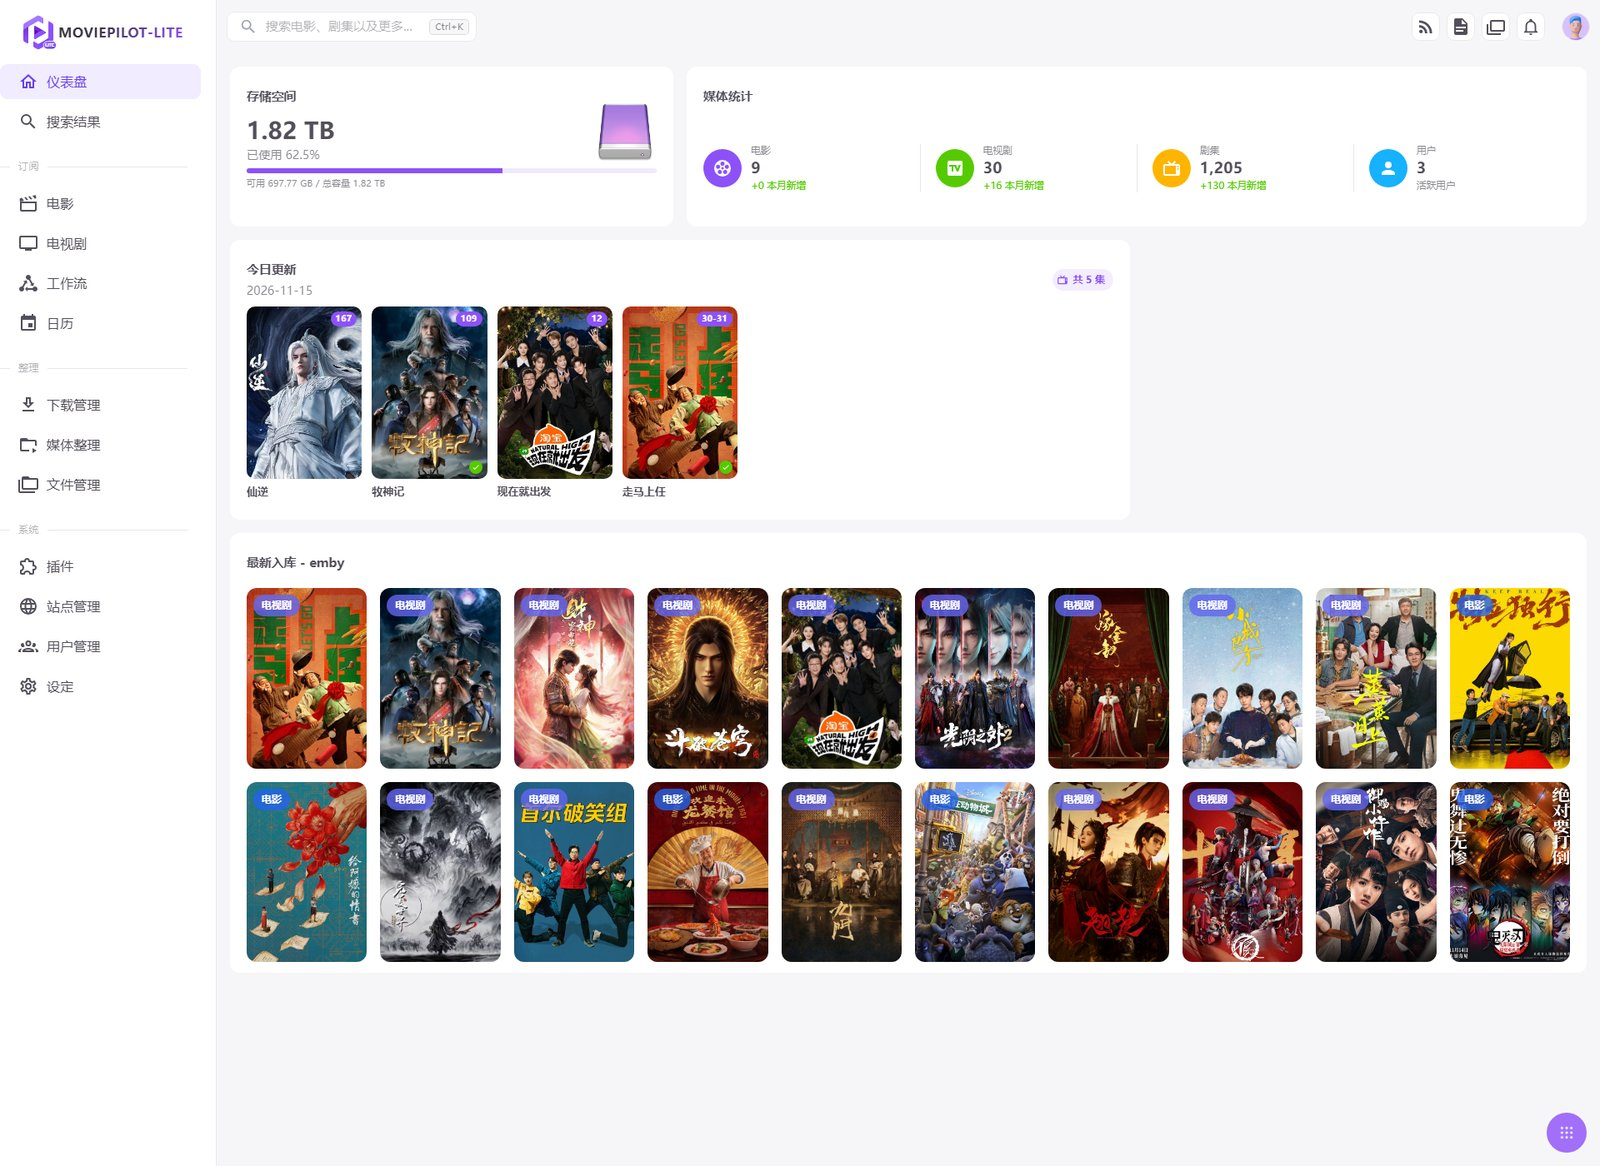
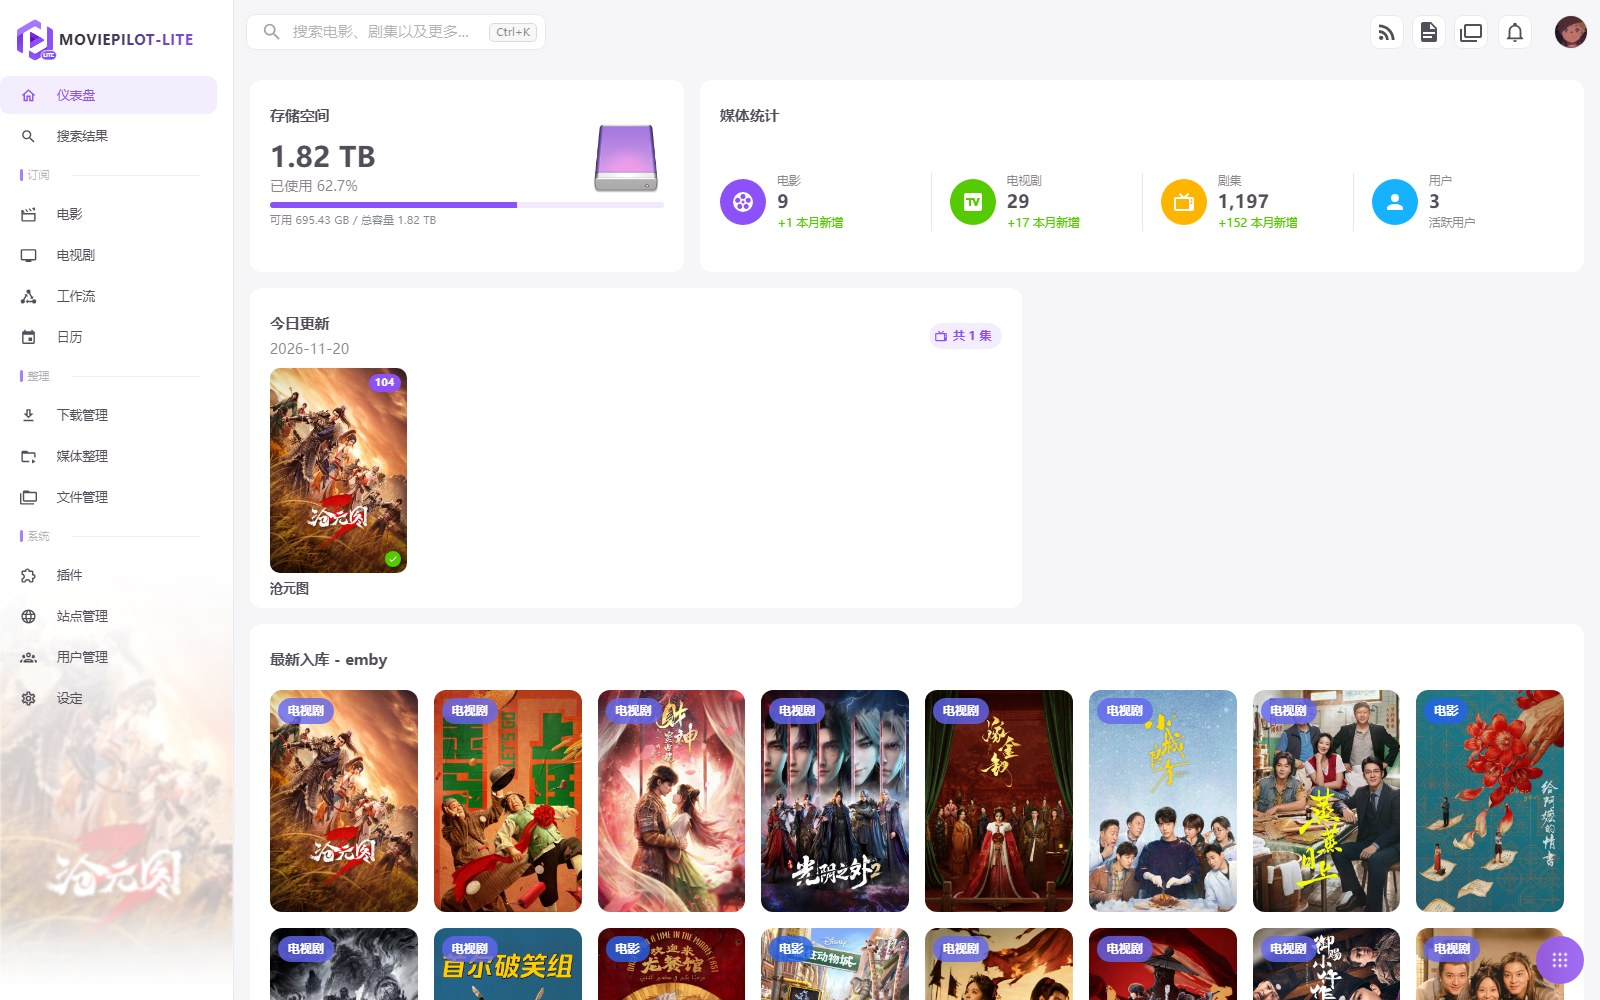
docs: refresh README intro and UI screenshots

diff --git a/README.md b/README.md
@@ -5,7 +5,7 @@
 
 简体中文 | 基于 [MoviePilot](https://github.com/jxxghp/MoviePilot) v2 的精简定制版。
 
-聚焦自动化核心流程（订阅、搜索、下载、整理、刮削、媒体库刷新、消息通知），移除 AI Agent / LLM 子系统与分享上报，并加入站点日志、订阅分类分组、今日更新等轻量增强。
+聚焦订阅、搜索、下载、整理、刮削、媒体库刷新与消息通知等核心流程，移除 AI Agent / LLM 子系统与分享上报；并针对高频使用场景重做了搜索结果、站点管理、订阅日历和侧栏，加入站点日志、日志分类标签与今日更新等轻量增强。
 
 > 仅用于学习交流使用，请勿在任何国内平台宣传该项目。
 
@@ -13,22 +13,27 @@
 
 | | |
 | --- | --- |
-| ![仪表盘](docs/screenshots/dashboard.jpg) | ![电视剧订阅](docs/screenshots/subscribe.jpg) |
-| **仪表盘**：媒体统计、今日更新、最新入库 | **订阅分组**：动漫 / 电视剧按分类自动分组，进度一目了然 |
-| ![站点日志](docs/screenshots/site-log.jpg) | ![登录页](docs/screenshots/login.jpg) |
-| **站点日志**：按站点记录每次 RSS 刷新与识别明细 | **登录页**：Bing 每日壁纸 + 暗色 LITE 皮肤 |
+| ![仪表盘](docs/screenshots/dashboard.jpg) | ![搜索结果](docs/screenshots/search.jpg) |
+| **仪表盘**：媒体统计、今日更新、最新入库 | **搜索结果**：中文标题优先，紧凑卡片与高密度列表可切换 |
+| ![电视剧订阅](docs/screenshots/subscribe.jpg) | ![站点管理](docs/screenshots/site.jpg) |
+| **订阅分组**：按分类自动分组，进度与状态一目了然 | **站点管理**：站点状态、上传下载、分享率与顶部汇总 |
+| ![站点日志](docs/screenshots/site-log.jpg) | ![日志分类](docs/screenshots/logging.jpg) |
+| **站点日志**：按站点记录 RSS 刷新与识别明细 | **日志分类**：下载 / 消息 / 刮削 / 整理分类着色与筛选 |
 
 ## 主要特性
 
 - 前后端一体：后端 FastAPI，前端 Vue 3 + Vuetify，构建产物随仓库分发
 - 订阅 / 搜索 / 下载 / 整理 / 刮削 / 媒体库刷新 / 消息通知完整保留
 - 下载器、媒体服务器、元数据源、消息渠道、插件与工作流能力保持兼容
-- **订阅分类分组**：订阅页按媒体分类（动漫 / 电视剧）自动分组展示，卡片采用 backdrop 背景 + 进度条设计
-- **站点日志**：按站点记录每次 RSS 刷新的种子名称与识别结果，支持站点切换、分页与自动刷新；RSS 刷新明细自动让位给站点日志，主日志保持清爽
+- **搜索结果页**：中文标题优先，紧凑卡片与高密度表格一键切换；支持排序、仅免费、分辨率等筛选
+- **站点管理**：状态徽章、上传/下载进度、分享率卡片化展示，顶部汇总与快捷新增/导入
+- **订阅日历**：月 / 周视图、今日与本周待播议程、入库状态高亮，移动端时间线支持折叠
+- **侧栏**：整体缩小约 10%，分组分割线，左下角动态展示当天更新海报，支持透明度调节
+- **站点日志**：按站点记录每次 RSS 刷新的种子名称与识别结果，支持站点切换、分页与自动刷新
+- **日志分类标签**：下载 / 消息 / 刮削 / 整理 / 其他分类着色与筛选；订阅刷新、媒体库同步等明细降为 DEBUG
 - **今日更新**：仪表盘卡片直接对接订阅日历，展示当天更新的剧集与集数，已入库条目显示绿点
-- **LITE 轻量界面**：扁平化亮 / 暗色皮肤，细边卡片、紧凑顶栏、淡紫选中态；日志 / 站点日志一键直达
+- **LITE 轻量界面**：扁平化亮 / 暗色皮肤，细边卡片、紧凑顶栏，主题强调色全站跟随
 - **登录页壁纸**：支持 Bing 每日壁纸（`WALLPAPER=bing`）、媒体服务器海报、TMDB 趋势与自定义接口
-- **日志精简**：订阅刷新、媒体库同步、插件加载等仅保留单行汇总，明细降为 DEBUG；主日志内置重启分隔线
 - **图片签名稳定**：资源签名密钥持久化，容器重启后图片代理 URL 不失效（登录会话密钥按安全设计不持久化，重启后需重新登录）
 
 ## 与上游的差异
@@ -38,11 +43,17 @@
 - AI Agent / LLM / MCP 全部代码与接口
 - 推荐 / 探索模块及对应前端入口
 - 订阅分享、热门分享、工作流分享，以及统计上报开关
+- 玻璃主题入口（旧偏好自动回退浅色）
 
 **新增**
 
 - `app/helper/site_log.py` 与 `app/assets/site_log.html`：站点日志系统
 - `GET /api/v1/dashboard/today`：今日更新数据（含入库状态）
+- 搜索结果页重做：中文标题提取、紧凑卡片 / 表格视图、仅免费快捷筛选
+- 站点管理改版：状态徽章、上传下载进度、分享率与顶部汇总
+- 订阅日历：月 / 周视图、今日 / 本周议程与移动端折叠时间线
+- 侧栏增强：紧凑布局、分组分割线、今日更新海报背景与透明度设置
+- 日志分类标签与筛选（下载 / 消息 / 刮削 / 整理 / 其他）
 - 订阅列表媒体分类（动漫 / 电视剧）与分组卡片视图
 - 仪表盘「今日更新」卡片与前端 LITE 皮肤
 - RSS 日志静默范围与单行汇总（`RSS_LOG_ENABLE` 开关控制）
